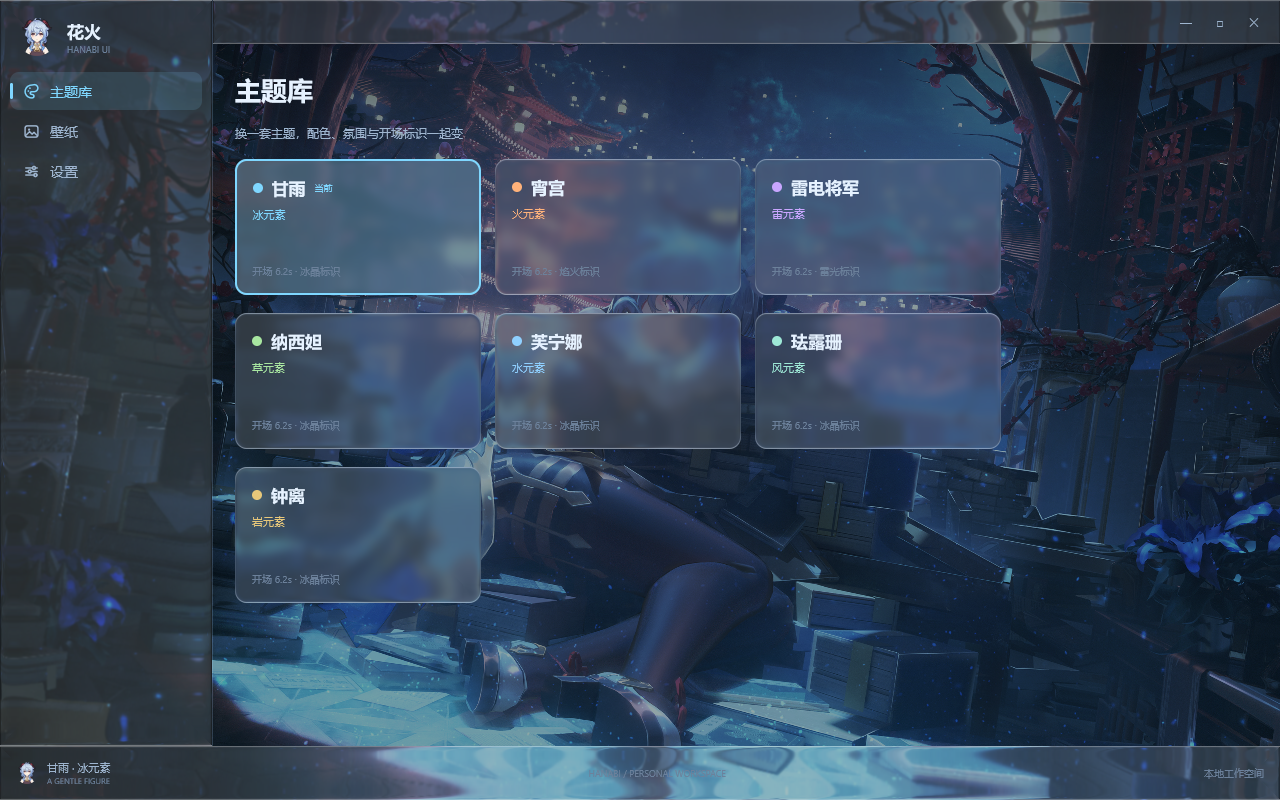
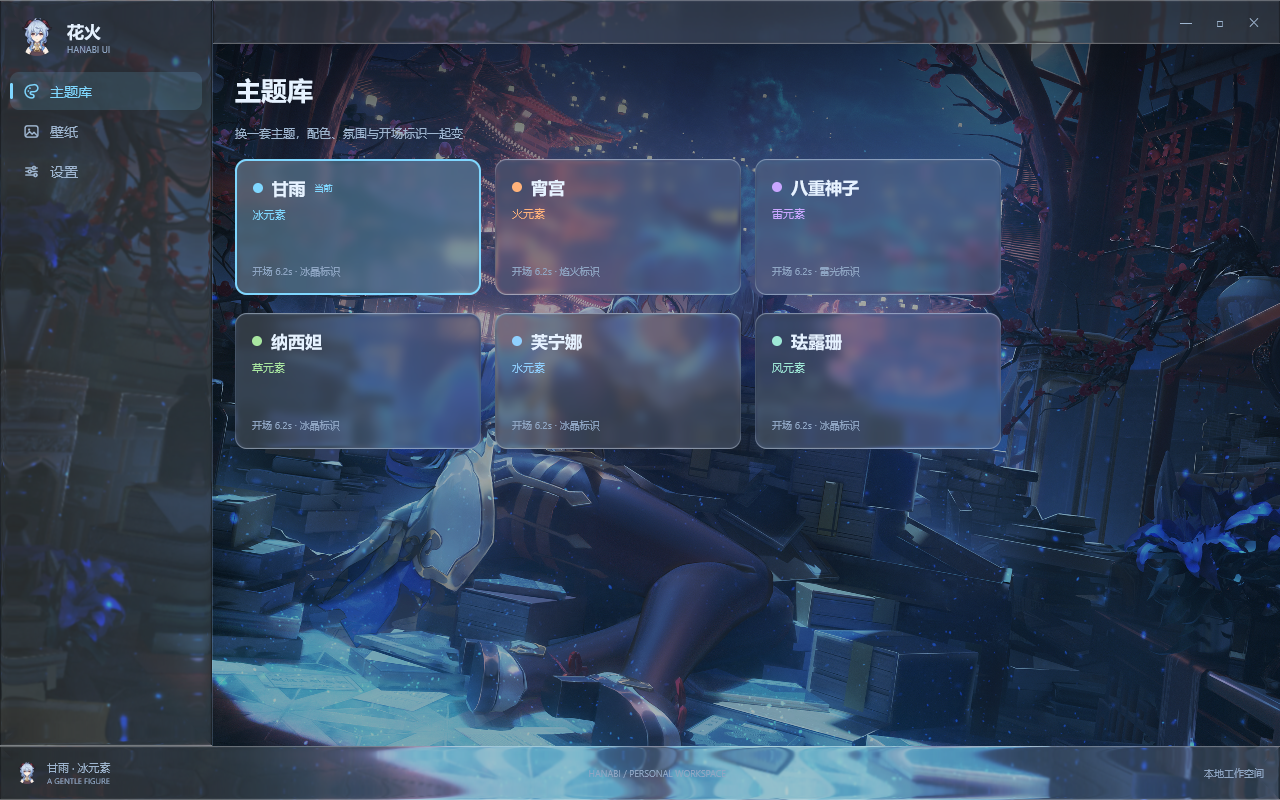
feat: 六个角色各自的壁纸，压暗按壁纸亮度自适应
- 从 HanaBi-ui-Genshin 导入 5 张角色壁纸（宵宫 / 八重神子 / 纳西妲 / 芙宁娜 / 珐露珊），
  资源统一为 assets/<id>/bg.jpg 与可选的 assets/<id>/icon.png
- Character 增加 Bg / Icon / Scrim：壁纸与头像跟随角色切换
  Scrim 按壁纸实测平均亮度逐个给（甘雨 0.27→0.32，八重/纳西妲 0.80→0.66），
  用统一值必然有一半角色不是太亮就是太闷
- assets.Keep：切换主题时释放其余壁纸像素（4K 一张约 33MB，六套全留着 200MB 起）
- 头像：有素材用角色头像，没有则用元素色圆 + 首字占位；
  顺带修掉图标改名后路径失效、头像静默消失的问题
- 雷元素角色改为八重神子（原项目提供其人物壁纸，雷电将军没有素材）

README 补六套主题截图与「改资源路径只静默变空」的排查方法。

diff --git a/internal/theme/theme.go b/internal/theme/theme.go
@@ -80,9 +80,20 @@ type Character struct {
 	Motif   Motif
 	Tok     Tokens
 
+	// Bg 是壁纸在 assets/ 下的相对路径（每个角色一张，均从原项目导入）。
+	Bg string
+	// Icon 是头像的相对路径；空表示没有头像素材，界面用元素色圆点占位。
+	Icon string
+
 	// WallTint 是壁纸染色的强度 0..1：0 = 保持原图颜色。
-	// 元素色离壁纸原色越远，这个值要越大才看得出氛围变化。
+	// 各自的壁纸色调已经贴合角色，这里只做轻微统一，通常 0.1~0.2。
 	WallTint float32
+
+	// Scrim 是壁纸上的压暗强度 0..1，保证白字压在上面仍可读。
+	//
+	// 不能所有角色用同一个值：实测平均亮度从甘雨的 0.27 到八重/纳西妲的 0.80，
+	// 同一个 0.38 对前者刚好、对后者等于没压。取值按 0.32+max(0,luma-0.32)×0.55 换算。
+	Scrim float32
 }
 
 // derive 从元素色推导一套暗色令牌：底色用元素色混入近黑，保证始终是深色底。
@@ -98,7 +109,7 @@ func derive(accent ui.Color) Tokens {
 		// 文字都掺一点元素色：整块界面会带角色气质，而不是纯灰白。
 		Text:      accent.Mix(ui.Hex("#FFFFFF"), 0.80),
 		TextMuted: accent.Mix(ui.Hex("#FFFFFF"), 0.44),
-		TextFaint: accent.Mix(ui.Hex("#FFFFFF"), 0.22),
+		TextFaint: accent.Mix(ui.Hex("#FFFFFF"), 0.34),
 
 		Accent:     accent,
 		AccentSoft: accent.Alpha(0.14),
@@ -108,27 +119,41 @@ func derive(accent ui.Color) Tokens {
 }
 
 // all 是所有可用角色。第一条是默认主题。
+//
+// 壁纸与头像都来自 HanaBi-ui-Genshin 的 assets/tex（本地导入，不入库），
+// 目录约定为 assets/<id>/bg.jpg 与可选的 assets/<id>/icon.png。
 var all = []Character{
 	{
 		ID: "ganyu", NameCN: "甘雨", NameEN: "Ganyu",
-		Element: Cryo, Motif: MotifCrystal,
-		WallTint: 0.28, Tok: ganyuTokens(),
+		Element: Cryo, Motif: MotifCrystal, WallTint: 0.15, Scrim: 0.32,
+		Bg: "ganyu/bg.jpg", Icon: "ganyu/icon.png", Tok: ganyuTokens(),
 	},
 	{
 		ID: "yoimiya", NameCN: "宵宫", NameEN: "Yoimiya",
-		Element: Pyro, Motif: MotifFlame,
-		WallTint: 0.62, Tok: yoimiyaTokens(),
+		Element: Pyro, Motif: MotifFlame, WallTint: 0.18, Scrim: 0.47,
+		Bg: "yoimiya/bg.jpg", Tok: yoimiyaTokens(),
 	},
 	{
-		ID: "raiden", NameCN: "雷电将军", NameEN: "Raiden",
-		Element: Electro, Motif: MotifBolt,
-		WallTint: 0.55, Tok: raidenTokens(),
+		ID: "yae", NameCN: "八重神子", NameEN: "Yae Miko",
+		Element: Electro, Motif: MotifBolt, WallTint: 0.15, Scrim: 0.66,
+		Bg: "yae/bg.jpg", Tok: yaeTokens(),
 	},
-	// 以下角色先复用冰晶画法，等有对应素材再补各自 Motif。
-	{ID: "nahida", NameCN: "纳西妲", NameEN: "Nahida", Element: Dendro, Motif: MotifCrystal, WallTint: 0.55, Tok: derive(ui.Hex("#A8E6A0"))},
-	{ID: "furina", NameCN: "芙宁娜", NameEN: "Furina", Element: Hydro, Motif: MotifCrystal, WallTint: 0.32, Tok: derive(ui.Hex("#8FD0FF"))},
-	{ID: "faruzan", NameCN: "珐露珊", NameEN: "Faruzan", Element: Anemo, Motif: MotifCrystal, WallTint: 0.52, Tok: derive(ui.Hex("#9EE8D6"))},
-	{ID: "zhongli", NameCN: "钟离", NameEN: "Zhongli", Element: Geo, Motif: MotifCrystal, WallTint: 0.60, Tok: derive(ui.Hex("#E8C87A"))},
+	// 以下角色有自己的壁纸，但标识先复用冰晶画法，等补了专属 Motif 再换。
+	{
+		ID: "nahida", NameCN: "纳西妲", NameEN: "Nahida",
+		Element: Dendro, Motif: MotifCrystal, WallTint: 0.15, Scrim: 0.66,
+		Bg: "nahida/bg.jpg", Tok: derive(ui.Hex("#A8E6A0")),
+	},
+	{
+		ID: "furina", NameCN: "芙宁娜", NameEN: "Furina",
+		Element: Hydro, Motif: MotifCrystal, WallTint: 0.14, Scrim: 0.35,
+		Bg: "furina/bg.jpg", Tok: derive(ui.Hex("#8FD0FF")),
+	},
+	{
+		ID: "faruzan", NameCN: "珐露珊", NameEN: "Faruzan",
+		Element: Anemo, Motif: MotifCrystal, WallTint: 0.16, Scrim: 0.47,
+		Bg: "faruzan/bg.jpg", Tok: derive(ui.Hex("#9EE8D6")),
+	},
 }
 
 // All 返回全部角色（顺序即界面顺序）。
@@ -158,7 +183,7 @@ func ganyuTokens() Tokens {
 	t.CardStroke = ui.RGBA(180, 215, 255, 0.20)
 	t.Text = ui.Hex("#E6F2FF")
 	t.TextMuted = ui.Hex("#9FB6D0")
-	t.TextFaint = ui.Hex("#6C819B")
+	t.TextFaint = ui.Hex("#8FA6C4")
 	return t
 }
 
@@ -171,12 +196,12 @@ func yoimiyaTokens() Tokens {
 	t.CardStroke = ui.RGBA(255, 200, 160, 0.22)
 	t.Text = ui.Hex("#FFF0E2")
 	t.TextMuted = ui.Hex("#D6B49B")
-	t.TextFaint = ui.Hex("#9A7A63")
+	t.TextFaint = ui.Hex("#BFA184")
 	return t
 }
 
-// raidenTokens 雷电将军（雷）：紫，文字偏冷白。
-func raidenTokens() Tokens {
+// yaeTokens 八重神子（雷）：紫，文字偏冷白。
+func yaeTokens() Tokens {
 	t := derive(ui.Hex("#C9A6FF"))
 	t.WinFill = ui.RGBA(14, 11, 24, 0.56)
 	t.Sidebar = ui.RGBA(17, 13, 28, 0.44)
@@ -184,7 +209,7 @@ func raidenTokens() Tokens {
 	t.CardStroke = ui.RGBA(210, 190, 255, 0.22)
 	t.Text = ui.Hex("#F0E9FF")
 	t.TextMuted = ui.Hex("#B6A8D4")
-	t.TextFaint = ui.Hex("#7E719A")
+	t.TextFaint = ui.Hex("#A99BC4")
 	return t
 }
 

diff --git a/internal/view/app.go b/internal/view/app.go
@@ -62,24 +62,24 @@ func (a *App) setCharacter(id string) {
 	}
 	a.char = c
 	a.tok = c.Tok
+	// 释放上一套的壁纸/头像像素：每张 4K 约 33MB，六套全留着会到 200MB。
+	assets.Keep(c.Bg, c.Icon)
 }
 
 // SetWindow 由 main 注入窗口句柄。
 func (a *App) SetWindow(w *mygo.Window) { a.win = w }
 
-// 壁纸与压暗层。壁纸只解一次（assets 内部缓存），压暗层保证半透明 UI 上文字可读。
+// 壁纸与压暗层。壁纸路径来自当前角色（assets 内部缓存），压暗层保证半透明 UI 上文字可读。
 var (
-	wallpaperPath  = "ganyu/ganyu-bg-4k.jpg"
-	wallpaperShade = ui.RGBA(6, 12, 22, 0.38)
-
 	// 顶部压深带：壁纸上部常有建筑、灯火的亮部，大标题压在上面读不清。
-	// 从顶部 0.55 的黑蓝渐隐到透明（170 DIP 处收干净），既托住标题又不压掉通透感。
+	// 从顶部 0.72 的黑蓝渐隐到透明（190 DIP 处收干净），既托住标题又不压掉通透感。
+	// 强度给得比较高是因为有的壁纸本身就是浅色立绘（纳西妲、八重神子）。
 	topScrim = ui.LinearGradient{
-		From:  ui.RGBA(6, 12, 22, 0.55),
+		From:  ui.RGBA(6, 12, 22, 0.72),
 		To:    ui.Transparent,
 		Angle: 180, // 从上到下
 	}
-	topScrimH = float32(170)
+	topScrimH = float32(190)
 )
 
 // View 每帧构建根视图：壁纸在最底 → 中间区域（侧栏 + 右侧内容）→ 整宽底部状态栏。
@@ -90,13 +90,13 @@ func (a *App) View(c *ui.Context) {
 	// 壁纸画在根容器的 Draw 回调里：它在自身背景之后、子元素之前执行，
 	// 所以 UI 天然压在壁纸上，不需要额外的层叠容器。
 	root := ui.Column(c).Fill().Background(a.tok.WinFill)
-	if bg := assets.Bitmap(wallpaperPath); bg != nil {
+	if bg := assets.Bitmap(a.char.Bg); bg != nil {
 		root = root.Draw(func(p *ui.Painter, r ui.Rect) {
 			// 用帧时间而不是 time.Now()：重绘帧不重建 view，时间也来自同一个时钟。
 			elapsed := p.Now().Sub(a.t0).Seconds()
 			// 着色器驱动：Cover 铺满 + 缓慢流动 + 按角色元素色保亮度染色。
 			wallpaper.Draw(p, bg, r, elapsed, a.animPlay, a.tok.Accent, a.char.WallTint)
-			p.Fill(r, wallpaperShade, 0) // 整体压暗
+			p.Fill(r, ui.RGBA(6, 12, 22, a.char.Scrim), 0) // 按壁纸亮度压暗（见 Character.Scrim）
 
 			// 顶部再压一层渐变，托住标题区（在玻璃条之下，不影响玻璃本身的通透）。
 			p.FillGradient(ui.Rect{X: r.X, Y: r.Y, W: r.W, H: topScrimH}, topScrim, 0)
@@ -129,6 +129,31 @@ func (a *App) View(c *ui.Context) {
 	}
 }
 
+// avatar 画当前角色的头像：有素材用图片，没有就用元素色圆 + 首字占位。
+//
+// 原项目只给了甘雨的角色头像，其余五个角色没有——占位样式让主题切换时
+// 仍能一眼看出换了谁，而不是六个角色共用同一张脸。
+func (a *App) avatar(c *ui.Context, size float32) {
+	if a.char.Icon != "" {
+		if bmp := assets.Bitmap(a.char.Icon); bmp != nil {
+			ui.Image(c, bmp).Width(size).Height(size).Radius(size / 2).Clip()
+			return
+		}
+	}
+	initial := "?"
+	if r := []rune(a.char.NameCN); len(r) > 0 {
+		initial = string(r[0])
+	}
+	// 实心元素色圆 + 深色字。
+	// 早先用的是 AccentSoft（14% 透明度）配 accent 文字：两个都是浅色系，
+	// 压在浅色壁纸上（纳西妲、八重神子的壁纸就是浅色立绘）等于隐形。
+	ui.Row(c).Width(size).Height(size).Radius(size / 2).
+		Background(a.tok.Accent).AlignItems(ui.Center).Justify(ui.Center).
+		Children(func() {
+			ui.Text(c, initial).FontSize(size * 0.46).Bold().TextColor(ui.Hex("#0A1420"))
+		})
+}
+
 // sidebar 左侧栏：品牌（头像 + 双行标题）+ 菜单。
 //
 // 侧栏用 glass.Clear：大面积面板用 Regular 会把壁纸糊得太狠，
@@ -138,9 +163,7 @@ func (a *App) sidebar(c *ui.Context) {
 		Material(glass.Glass{Style: glass.Clear, Clarity: 0.30}).
 		Children(func() {
 			ui.Row(c).Padding(18, 16, 16, 18).Gap(11).AlignItems(ui.Center).Children(func() {
-				if bmp := assets.Bitmap("ganyu/ganyu-icon.png"); bmp != nil {
-					ui.Image(c, bmp).Width(38).Height(38).Radius(19).Clip()
-				}
+				a.avatar(c, 38)
 				ui.Column(c).Gap(1).Children(func() {
 					ui.Text(c, "花火").FontSize(17).Bold().TextColor(a.tok.Text)
 					ui.Text(c, "HANABI UI").FontSize(9).TextColor(a.tok.TextFaint)
@@ -215,9 +238,7 @@ func (a *App) statusbar(c *ui.Context) {
 	ui.Row(c).Height(54).Padding(18, 16).AlignItems(ui.Center).Gap(9).
 		Material(glass.Glass{Style: glass.Clear, Clarity: 0.15}).
 		Children(func() {
-			if bmp := assets.Bitmap("ganyu/ganyu-icon.png"); bmp != nil {
-				ui.Image(c, bmp).Width(22).Height(22).Radius(11).Clip()
-			}
+			a.avatar(c, 22)
 			ui.Column(c).Gap(1).Children(func() {
 				ui.Text(c, a.char.NameCN+" · "+a.char.Element.Label()).FontSize(11).TextColor(a.tok.TextMuted)
 				ui.Text(c, "A GENTLE FIGURE").FontSize(8).TextColor(a.tok.TextFaint)

diff --git a/internal/assets/assets.go b/internal/assets/assets.go
@@ -82,3 +82,30 @@ func Bitmap(rel string) *ui.Bitmap {
 	cache[rel] = bmp
 	return bmp
 }
+
+// Keep 只保留仍需要的位图，其余的释放像素并移出缓存。
+//
+// 一张 4K 壁纸解码后约 33 MB（3840×2160×4）。六个角色的壁纸全留在缓存里
+// 就是 200 MB 起——切换主题时必须清掉不用的。保留原始文件数据的话
+// （DecodeBitmap 的语义），切回来会重新解码，代价可接受。
+func Keep(keys ...string) {
+	mu.Lock()
+	defer mu.Unlock()
+
+	for rel, bmp := range cache {
+		wanted := false
+		for _, k := range keys {
+			if k == rel {
+				wanted = true
+				break
+			}
+		}
+		if wanted {
+			continue
+		}
+		if bmp != nil {
+			bmp.ReleasePixels()
+		}
+		delete(cache, rel)
+	}
+}

diff --git a/README.md b/README.md
@@ -9,9 +9,11 @@
 
 - **多角色主题**：一套「角色包」结构——令牌（11 色 + 圆角）、元素、标识画法（Motif）、壁纸染色强度
   - 主题库点卡片即切换：侧栏、卡片、文字、玻璃 tint、壁纸氛围**同时变**
-  - 三套完整主题：甘雨（冰·冰晶标识）、宵宫（火·焰火标识）、雷电将军（雷·雷光标识）
-  - 其余四个角色复用冰晶画法，等有素材再补各自 Motif
+  - **六个角色各有自己的壁纸**（均从 HanaBi-ui-Genshin 导入）：甘雨、宵宫、八重神子、纳西妲、芙宁娜、珐露珊
+  - 三种标识画法：冰晶（甘雨等）、焰火（宵宫）、雷光（八重神子）
   - **壁纸染色在着色器里做**（按元素色重映射亮度），不是叠半透明色层——后者会把暗部提亮、糊掉细节
+  - **压暗强度按壁纸实测亮度逐个给**：甘雨 0.27 用 0.32，八重/纳西妲 0.80 用 0.66；一个统一值必然有一半不合适
+  - 头像：有素材用角色头像（甘雨），没有就用元素色圆 + 首字占位
   - 新增角色只改 `internal/theme/theme.go` 一条数据，页面与绘制层不动
 - **开场动画（6.20 秒）**：时间轴与粒子参数**照搬原项目**（同一套 LCG 随机数种子，粒子分布逐帧对应）
   - 时间轴：0.20s 上升 → 1.45s 转向 → 3.65s 成形 → 4.65s 停靠 → 6.20s 结束
@@ -38,9 +40,13 @@
 
 ## 预览
 
-| 主题库 · 甘雨（冰） | 主题库 · 宵宫（火） | 主题库 · 雷电将军（雷） |
+| 主题库 · 甘雨（冰） | 主题库 · 宵宫（火） | 主题库 · 八重神子（雷） |
 |---|---|---|
-| ![甘雨](docs/screenshots/theme-ganyu.png) | ![宵宫](docs/screenshots/theme-yoimiya.png) | ![雷电将军](docs/screenshots/theme-raiden.png) |
+| ![甘雨](docs/screenshots/theme-ganyu.png) | ![宵宫](docs/screenshots/theme-yoimiya.png) | ![八重神子](docs/screenshots/theme-yae.png) |
+
+| 主题库 · 纳西妲（草） | 主题库 · 芙宁娜（水） | 主题库 · 珐露珊（风） |
+|---|---|---|
+| ![纳西妲](docs/screenshots/theme-nahida.png) | ![芙宁娜](docs/screenshots/theme-furina.png) | ![珐露珊](docs/screenshots/theme-faruzan.png) |
 
 | 开场 · 抽枝生长（0.9s） | 开场 · 转向成形（2.5s） | 开场 · 完全成形（3.75s） |
 |---|---|---|
@@ -59,6 +65,7 @@
 9. **图片解码必须缓存**：壁纸是 1200 万像素的 JPG，每帧解码会直接把帧率打到个位数（见 `internal/assets`）。
 10. **CPU 渲染器跑 kage 很慢**：离屏截图走 CPU 解释器，1280×800 一帧约 0.3s；真机走 GPU 才够 12fps 或 60fps。
 11. **资源不随仓库分发**：`assets/` 在 `.gitignore` 里，打包前必须在本地存在（`mygo.json` 的 `resources: ["assets"]` 会把它复制到 exe 旁）。
+12. **改资源路径时，写死的路径不会报错、只会静默变空**：把 `ganyu-icon.png` 改名成 `icon.png` 后，`assets.Bitmap` 返回 nil，头像是"消失了"而不是报错。判断这类问题要看布局：`Tester.Find("花火")` 返回的 x 若等于左内边距，说明前面的元素宽度为 0（根本没占位）。
 
 ## 运行
 
@@ -99,7 +106,7 @@ go test ./...          # 时间轴/粒子/姿态 + 开场渲染冒烟
 
 ## 路线图
 
-1. **角色素材**：每个角色自己的壁纸（现在共用甘雨那张，靠染色区分）；有了素材后 `WallTint` 可以降到很低
+1. **专属标识**：纳西妲/芙宁娜/珐露珊还在用冰晶画法，需要各自的 Motif（草叶、水波、风纹）
 2. **主题库**：卡片缩略图、按元素筛选
 3. **设置**：字号、启动主题、动画开关（`wallpaper.Draw` 的 `play`、开场是否播放）、切换时是否重播开场
 4. **打包与更新**：沿用 mygo 的 `build`/`-upload` 与内置 Updater
